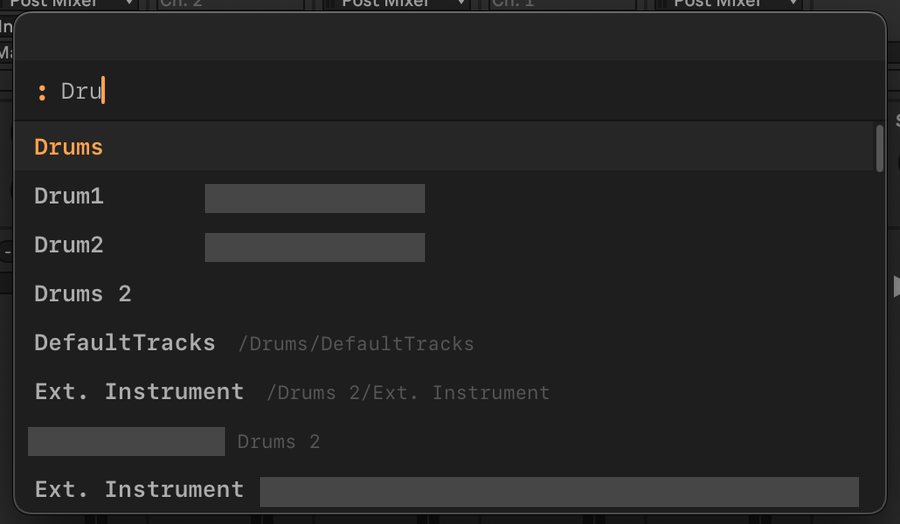
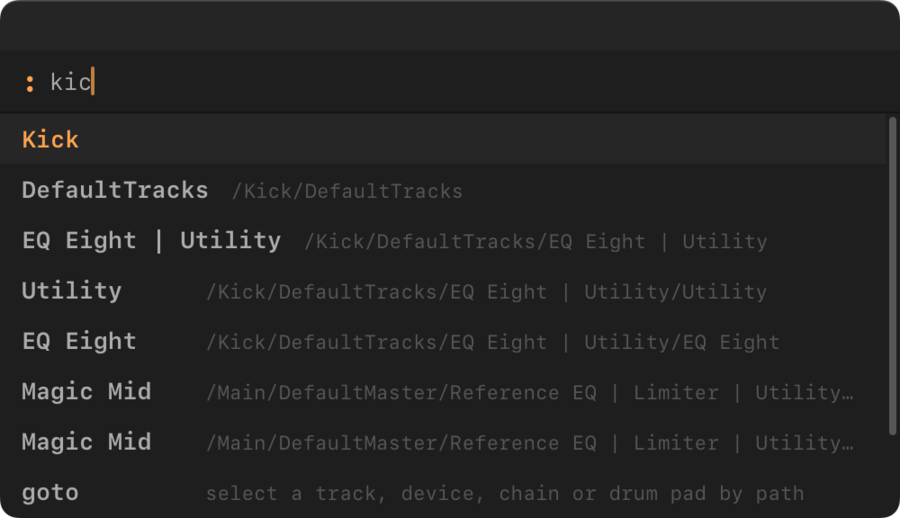
docs(0.1.3): image audit — palette, pick list and find images recaptured from the demo Set; links in the vol section

diff --git a/docs/using.md b/docs/using.md
@@ -52,7 +52,7 @@ A command takes objects as text. cmdAbl reads that text as follows:
 
 When a name matches more than one object, cmdAbl asks. It never picks one for you.
 
-![The palette with Dru typed: rows for the tracks and devices whose names or paths contain Dru, each with its path in grey; names of other gear are covered with grey boxes](assets/images/palette-objects.png)
+![The palette with kic typed: the track Kick and the devices below it, each with its path in grey, then the Magic Mid devices of the main track and the command goto](assets/images/palette-objects.png)
 
 *Type part of a name, and the palette lists the objects that match.*
 
@@ -136,7 +136,7 @@ Without a pattern, `find` needs `-L` or one of `-t`, `-d` and `-c`; a bare `find
 `-L` takes a whole number from 0 to 12 with a pattern, and from 1 without one. For finding tracks by tag, see
 [Tags](#use-tags-as-targets).
 
-![The find pick list headed find: — 12 matches: every track of the Set with its tags, such as #synth #drums on Synth and #bass on Bass, and the main track last](assets/images/find-top.png)
+![The find pick list headed find: — 11 matches: every track of the Set with its tags, such as #synth on Synth and #bass #drums on Bass, the three return tracks, and the main track last](assets/images/find-top.png)
 
 *`find -L 1` lists the top-level tracks, each with its tags.*
 
@@ -162,7 +162,7 @@ want explicitly, like Cmd-clicking the buttons in Live.
 - `vol --set <dB> <target>…` (short `-s`) puts every fader at that level. `vol --set -inf /Lead` silences the Lead
   track.
 - Decimals work: `vol -1.5 /Bass`, `vol .5 #drums`.
-- Targets are tracks: regular, return, group and the main track (`/Main`), by path, name or tag. A rack chain or
+- Targets are tracks: regular, return, group and the main track (`/Main`), by path, name or [tag](#use-tags-as-targets). A rack chain or
   Drum Rack pad is refused with "vol works on tracks for now".
 - A move that went as typed is quiet, and so is a `--set` that changes a fader; if nothing moves, it says "nothing changed". One run is one Cmd+Z step. Levels are as precise as Live's display, 0.1 dB.
 
@@ -184,7 +184,7 @@ want explicitly, like Cmd-clicking the buttons in Live.
 - A fader at -inf stays there with a relative step. Only `--set` brings it back.
 - `--clip` together with `--set` is a usage error, and so is a relative `-inf`; use `vol --set -inf`.
 
-**The log and undo.** `cmdabl log` shows what a run did: "asked +9.0 dB, applied +3.0 dB", then
+**The log and undo.** [`cmdabl log`](#logs) shows what a run did: "asked +9.0 dB, applied +3.0 dB", then
 `/Kick: 3.0 → 6.0 dB` and an `undo: vol --set 3.0 /Kick` line per track. `cmdabl log --undo` lists the undo lines.
 
 **Automation.** `vol` overwrites the fader like a hand move. On a track with volume automation, Live treats it as a
@@ -247,7 +247,7 @@ tracks.
   chains and pads of the tagged tracks.
 - Without the Remote Script, `#` answers that the Remote Script is not running. Plain words work as before.
 
-![The find pick list for find #drums: three tracks, Kick, Snare and Perc, each with the tag drums](assets/images/find-tags.png)
+![The find pick list for find #drums: six tracks, Bass, Lead, Guitar, Kick, Snare and Perc, each with the tag drums](assets/images/find-tags.png)
 
 ### The tag board
 

diff --git a/docs/getting-started.md b/docs/getting-started.md
@@ -86,7 +86,7 @@ from step 2 works too.
 | `↑` / `↓` | moves through the list |
 | `Esc` | closes the palette without running anything |
 
-![The palette open with the text Sub typed: tracks, devices and chains whose names or paths contain Sub appear as rows, with their track or path in grey](assets/images/palette.png)
+![The palette open with the text sn typed: the track Snare and the devices below it appear as rows, with their path in grey](assets/images/palette.png)
 
 *Type part of a name: tracks, devices and chains appear as rows. Enter selects the highlighted one.*
 
@@ -106,7 +106,7 @@ When a name matches more than one object, cmdAbl shows a **pick list** instead o
 `↑` and `↓` to move, `Enter` to choose and `Esc` to cancel. Commands that take several tracks, such as `mute`, let
 you mark more than one row with `Tab`.
 
-![The pick list for mute --pick #drums, with five tracks: Drums, Bass, Synth, Lead and FX Sound, each with its tags; the speaker buttons of Drums and Synth are marked with a dashed ring](assets/images/pick-list.png)
+![The pick list for mute --pick #drums, with six tracks: Bass, Lead, Guitar, Kick, Snare and Perc, each with its tags; the speaker buttons of Bass, Guitar and Kick are marked with a dashed ring](assets/images/pick-list.png)
 
 *A name that matches several tracks opens the pick list. The line above the filter shows the command that Enter
 will run, and the buttons show the state that Enter would set.*
